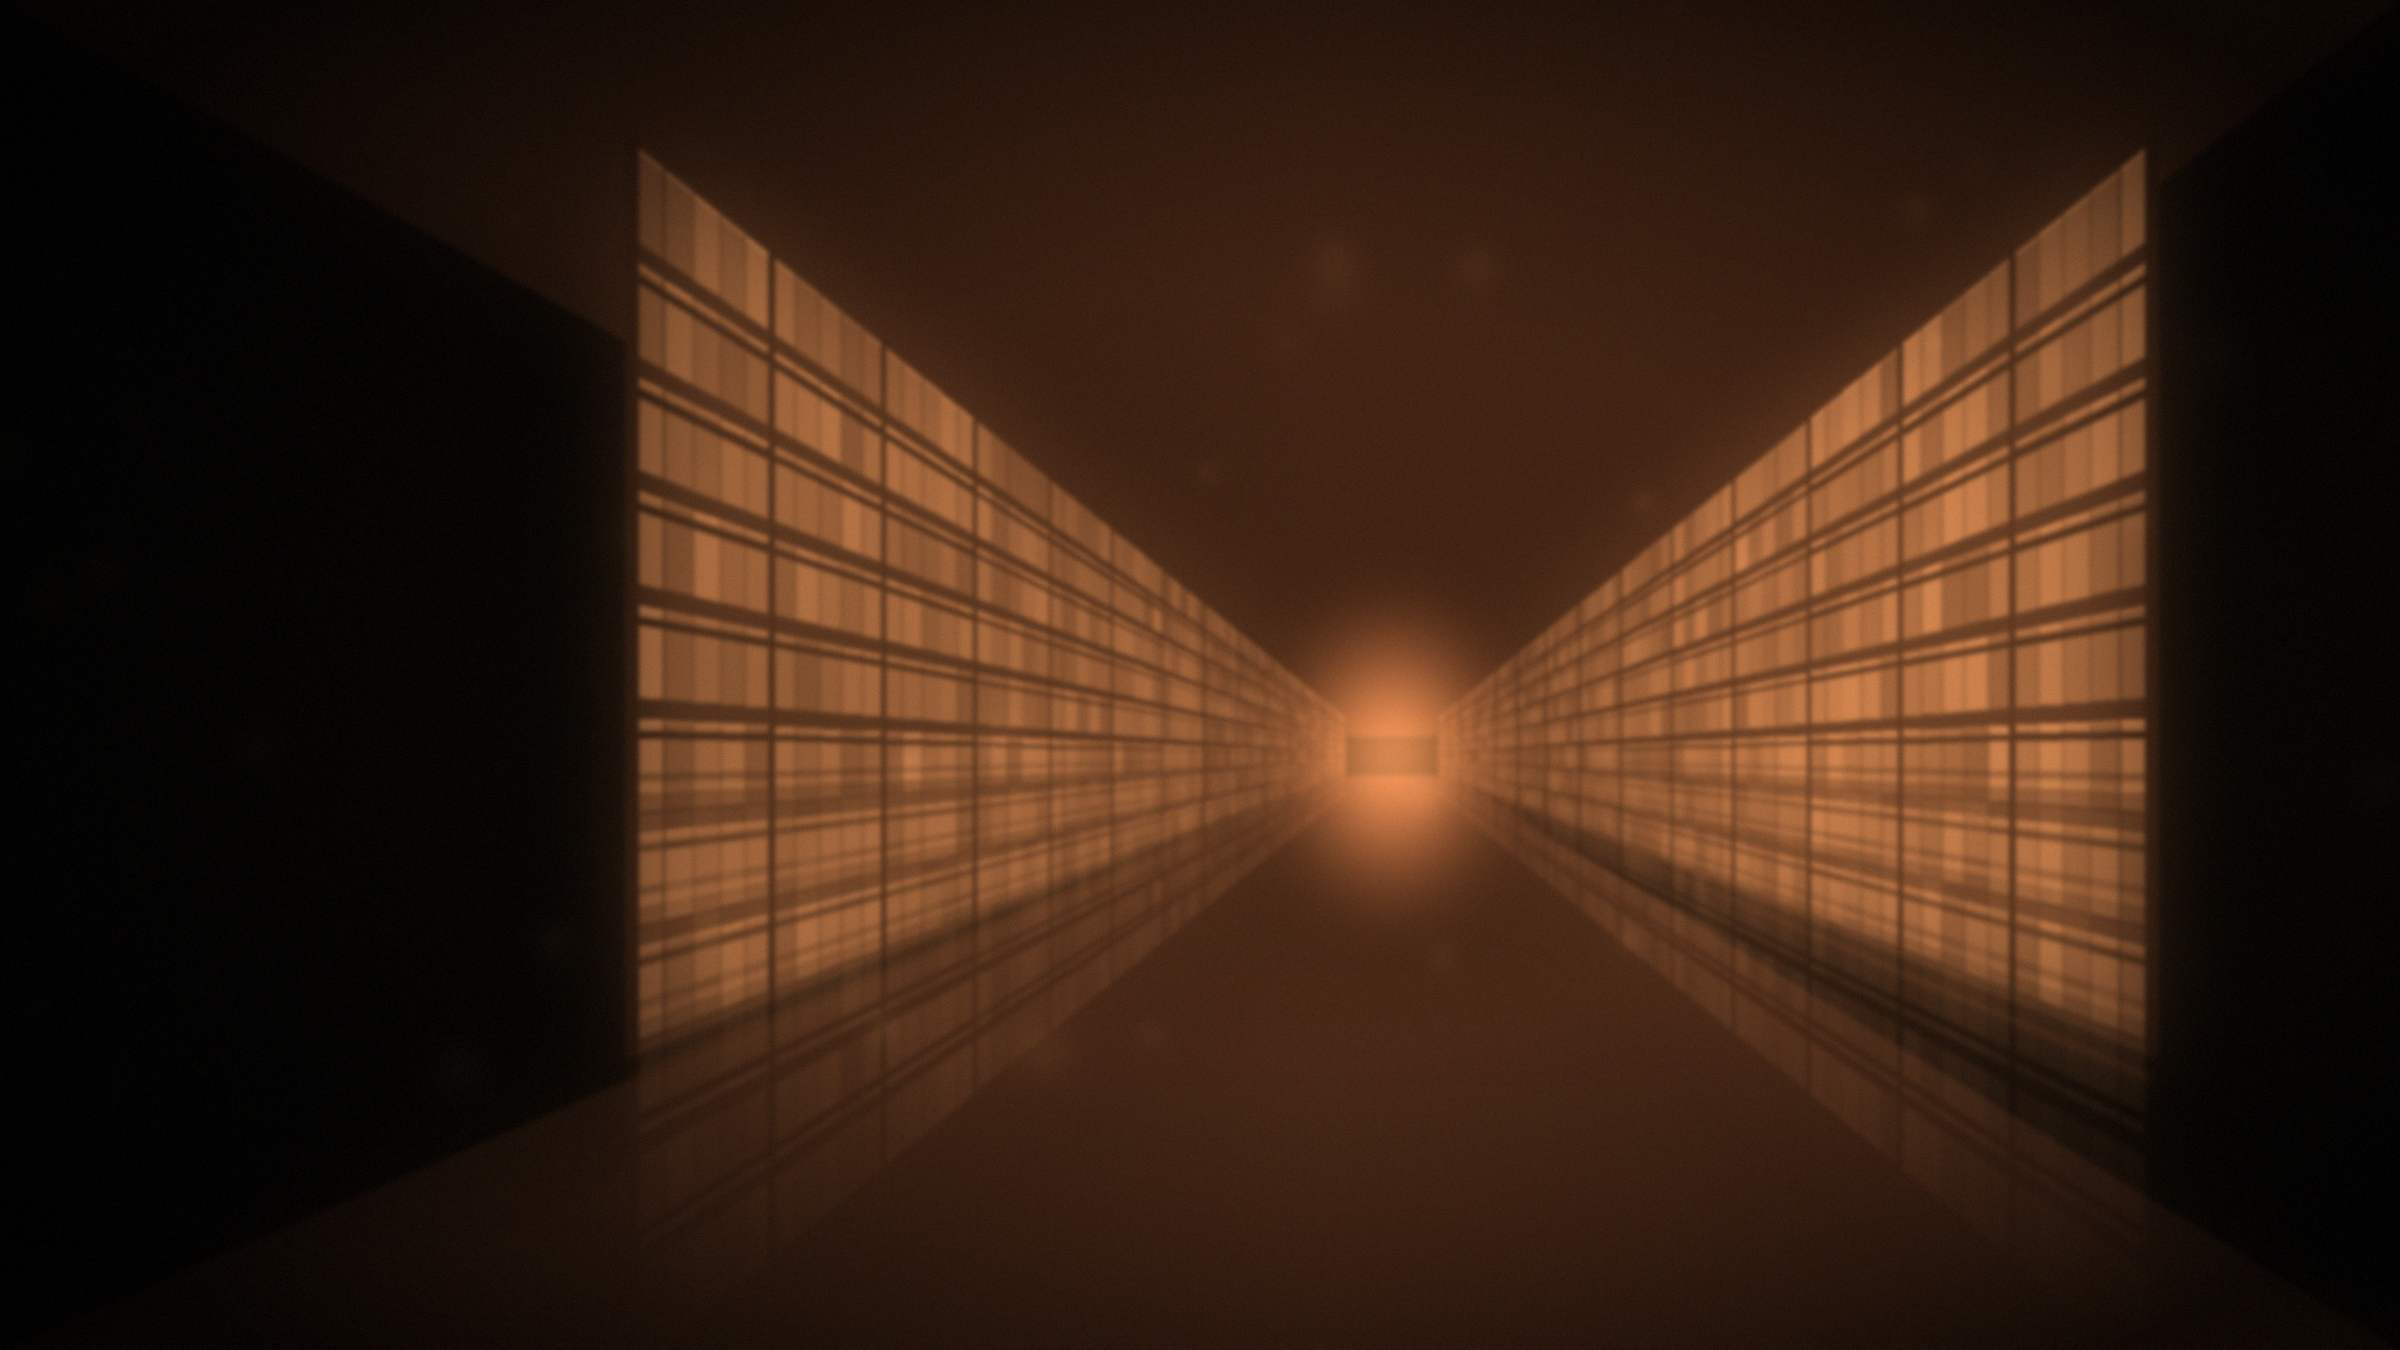
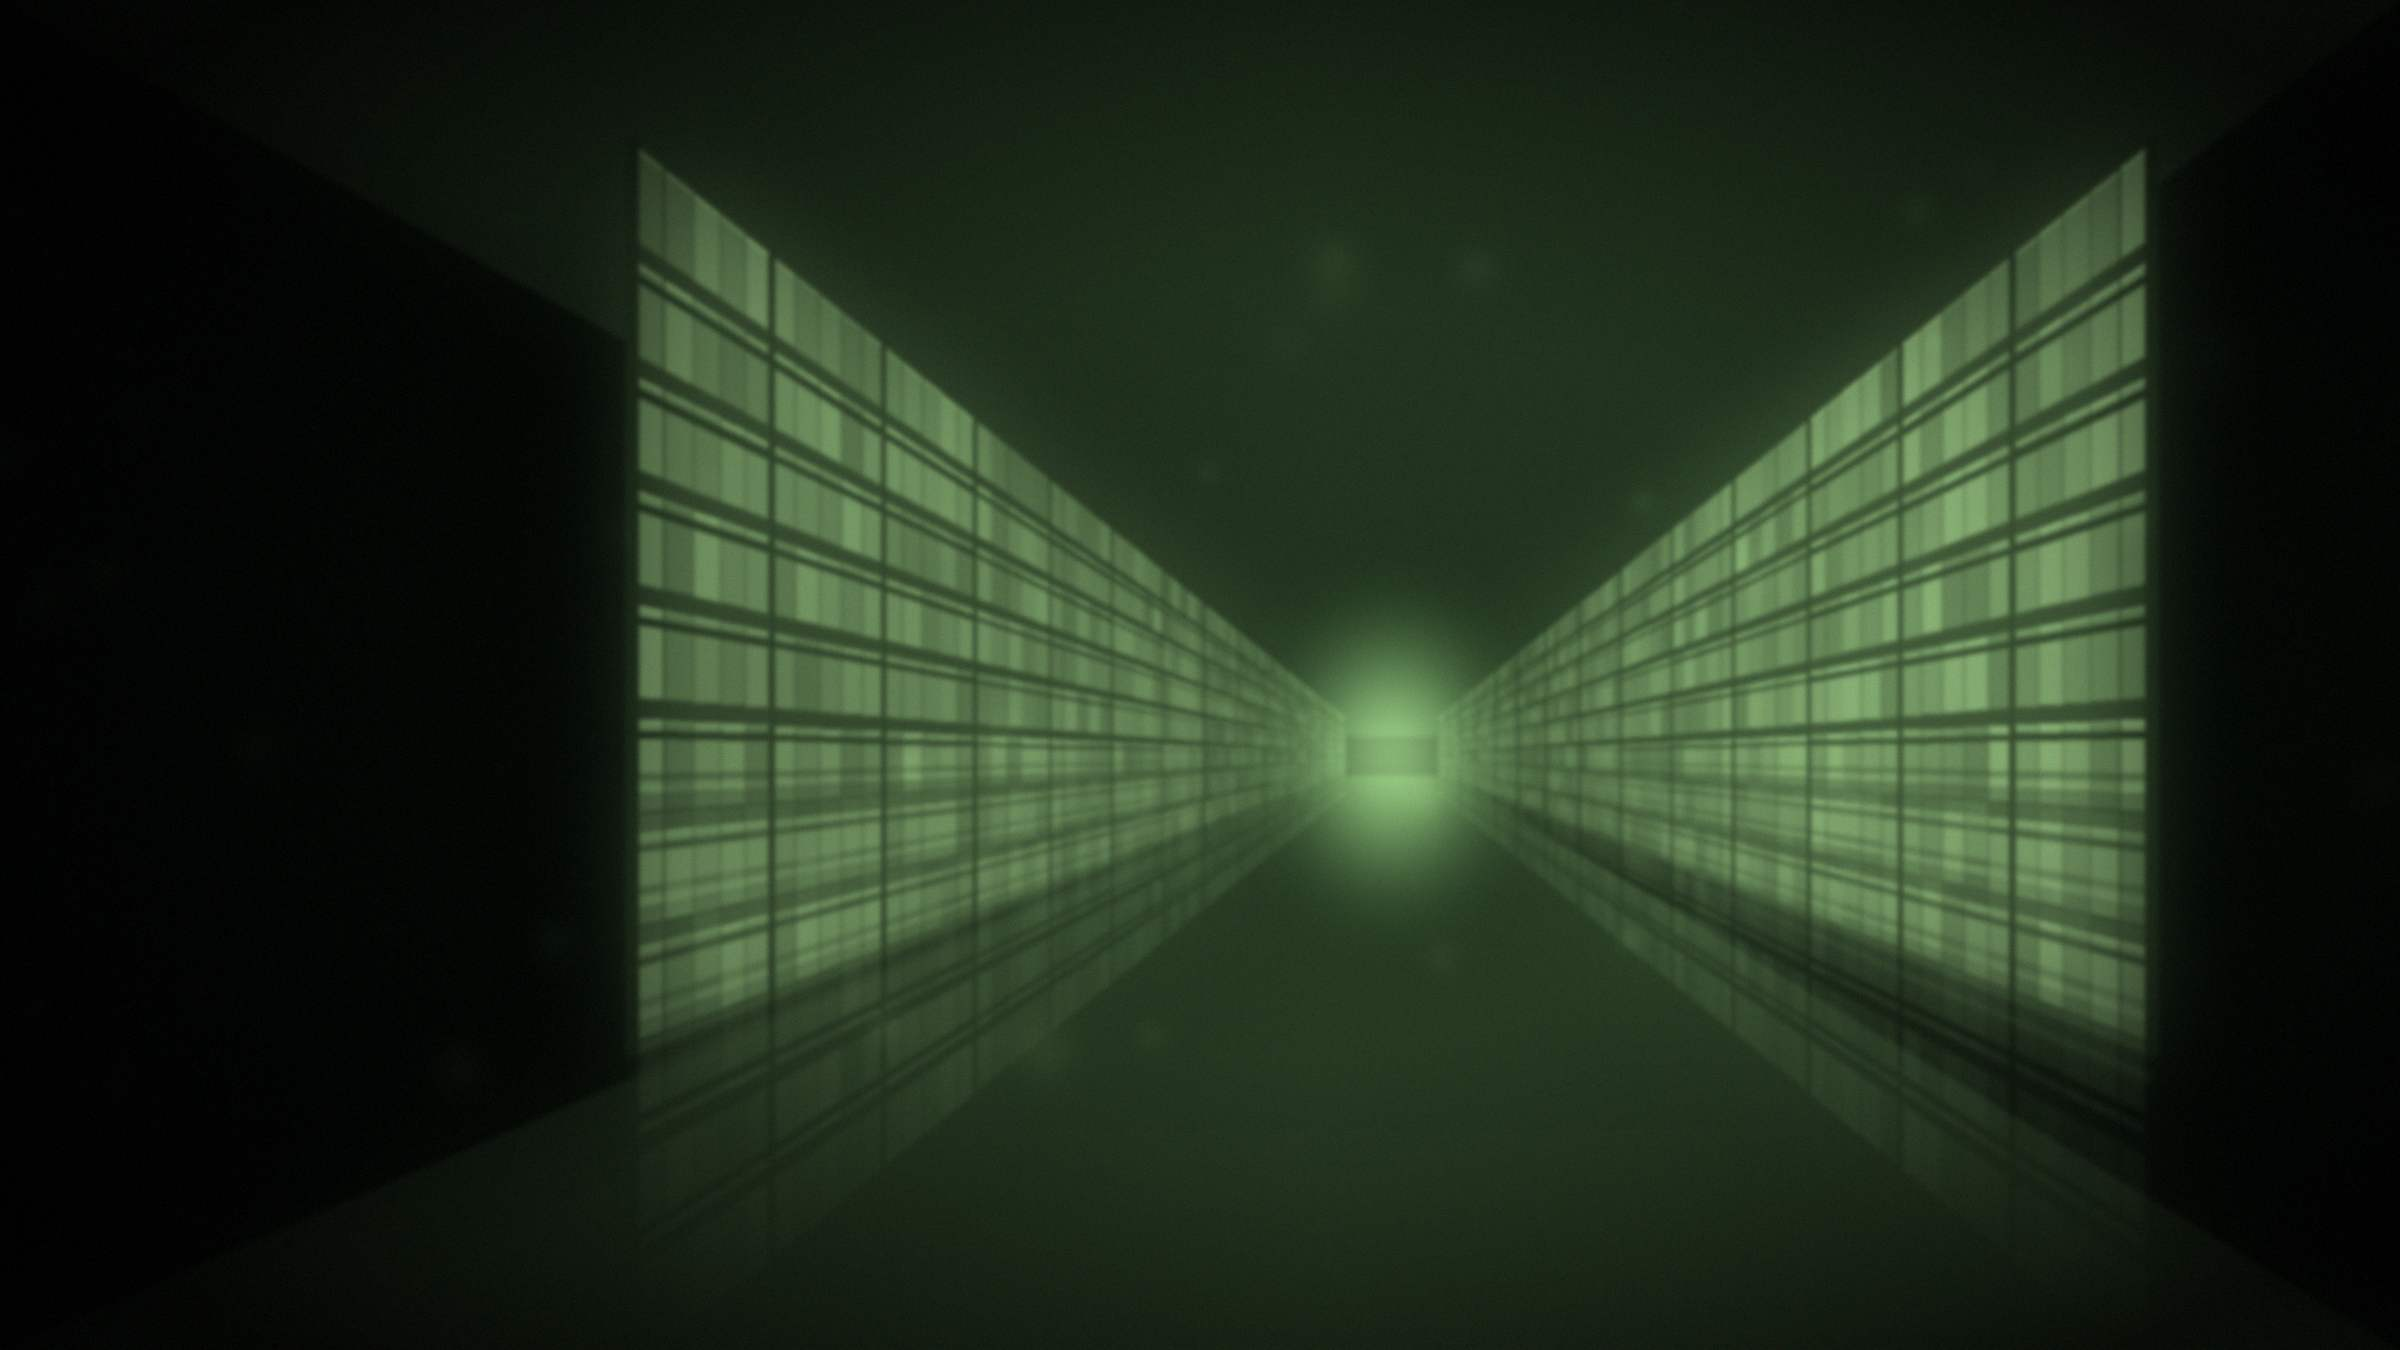
Recolour the app in nature green
Palette, glass tints and the generated hero image move from warm brown and cream
to forest and sage green with a leaf-green accent.

diff --git a/src/ui.html b/src/ui.html
@@ -5,26 +5,26 @@
 <meta name="viewport" content="width=device-width, initial-scale=1">
 <title>pdfsqueeze</title>
 <style>
-  /* Look: cinematic dark editorial. A warm hero image sits behind frosted-glass panels,
-     with a cream accent, large light headlines and pill buttons. One look, dark only. */
+  /* Look: cinematic dark editorial. A forest-toned hero image sits behind frosted-glass panels,
+     with a leaf-green accent, large light headlines and pill buttons. One look, dark only. */
   :root {
-    --bg: #0b0806;
-    --rail: rgba(14, 10, 8, .52);
-    --surface: rgba(38, 28, 22, .58);
-    --ink: #f4e8dc;
-    --muted: #c4b3a4;
-    --faint: #94836f;
-    --line: rgba(255, 232, 210, .15);
-    --accent: #f0c9ae;     /* cream-peach */
-    --accent-ink: #2a170c;
-    --accent-soft: rgba(240, 201, 174, .16);
-    --good: #94e3b8;
-    --good-soft: rgba(148, 227, 184, .12);
+    --bg: #050a07;
+    --rail: rgba(7, 15, 10, .52);
+    --surface: rgba(20, 35, 26, .58);
+    --ink: #e6f1e8;
+    --muted: #a8bfae;
+    --faint: #7b9283;
+    --line: rgba(200, 240, 215, .15);
+    --accent: #86cd78;     /* leaf green */
+    --accent-ink: #0b2410;
+    --accent-soft: rgba(134, 205, 120, .16);
+    --good: #b4e8a0;
+    --good-soft: rgba(180, 232, 160, .12);
     --warn: #f2c35b;
     --warn-soft: rgba(242, 195, 91, .12);
     --bad: #ff9d92;
     --bad-soft: rgba(255, 157, 146, .14);
-    --glass: rgba(20, 14, 11, .50);
+    --glass: rgba(9, 19, 13, .50);
     --shadow: 0 1px 2px rgba(0, 0, 0, .4), 0 18px 48px rgba(0, 0, 0, .42);
     --radius: 18px;
     --display: "SF Pro Display", -apple-system, BlinkMacSystemFont, "Segoe UI Variable Display", "Segoe UI", Roboto, system-ui, sans-serif;
@@ -251,17 +251,17 @@
   .hidden { display: none !important; }
 
   .ucards { display: grid; grid-template-columns: repeat(auto-fill, minmax(150px, 1fr)); gap: 14px; }
-  .ucard { border: 1px solid var(--line); background: rgba(255, 238, 222, .05); border-radius: 16px; padding: 10px; display: grid; gap: 4px; min-width: 0; }
+  .ucard { border: 1px solid var(--line); background: rgba(225, 248, 230, .05); border-radius: 16px; padding: 10px; display: grid; gap: 4px; min-width: 0; }
   .uframe { position: relative; aspect-ratio: 3 / 4; border-radius: 9px; background: rgba(0, 0, 0, .35); border: 1px solid var(--line); display: grid; place-items: center; overflow: hidden; color: var(--faint); }
   .uframe img { width: 100%; height: 100%; object-fit: contain; object-position: top; display: block; }
   .unum { position: absolute; top: 7px; left: 7px; min-width: 26px; height: 26px; border-radius: 99px; background: var(--accent); color: var(--accent-ink); font-weight: 700; display: grid; place-items: center; padding: 0 7px; font-variant-numeric: tabular-nums; }
   .uname { font-weight: 600; font-size: 14px; overflow: hidden; text-overflow: ellipsis; white-space: nowrap; margin-top: 4px; }
   .umeta { color: var(--muted); font-size: 12.5px; font-variant-numeric: tabular-nums; }
   .cx { position: absolute; top: 7px; right: 7px; width: 26px; height: 26px; padding: 0; line-height: 0; border-radius: 50%; border: 1px solid var(--line);
-        background: rgba(10, 7, 5, .62); color: var(--ink); cursor: pointer; display: grid; place-items: center; z-index: 2; }
+        background: rgba(4, 10, 6, .62); color: var(--ink); cursor: pointer; display: grid; place-items: center; z-index: 2; }
   .cx svg.i { width: 14px; height: 14px; }
   .cx:hover, .cx:focus-visible { background: var(--bad-soft); color: var(--bad); border-color: var(--bad); outline: none; }
-  .ugrip { justify-self: center; margin-top: 6px; width: 38px; height: 30px; border-radius: 10px; display: grid; place-items: center; color: var(--muted); border: 1px solid var(--line); background: rgba(255, 238, 222, .06); cursor: grab; }
+  .ugrip { justify-self: center; margin-top: 6px; width: 38px; height: 30px; border-radius: 10px; display: grid; place-items: center; color: var(--muted); border: 1px solid var(--line); background: rgba(225, 248, 230, .06); cursor: grab; }
   .ugrip svg.i { width: 18px; height: 18px; }
   .ucards.sortable .ucard[data-uid] { cursor: grab; user-select: none; -webkit-user-select: none; touch-action: none; }
   .ucards.sortable .ucard[data-uid]:hover { border-color: var(--accent); }
@@ -274,7 +274,7 @@
   svg.i.flip { transform: scaleX(-1); }
   .ucard { grid-template-columns: minmax(0, 1fr); }
   .ucard.add { display: grid; justify-items: stretch; align-content: start; width: 100%; cursor: pointer; background: transparent; border: 1px dashed var(--line); color: var(--muted); text-align: left; font: inherit; }
-  .ucard.add .uframe { width: 100%; background: rgba(255, 238, 222, .04); border: 1px dashed var(--line); }
+  .ucard.add .uframe { width: 100%; background: rgba(225, 248, 230, .04); border: 1px dashed var(--line); }
   .ucard.add .uframe svg.i { width: 38px; height: 38px; stroke-width: 1.4; }
   .ucard.add .uname { color: var(--ink); }
   .ucard.add:hover, .ucard.add:focus-visible { border-color: var(--accent); color: var(--accent); outline: none; background: var(--accent-soft); }
@@ -283,29 +283,29 @@
   html { background: var(--bg); }
   body { background: transparent; }
   body::before { content: ""; position: fixed; inset: 0; z-index: -1; background:
-      linear-gradient(90deg, rgba(8, 5, 3, .86) 0%, rgba(8, 5, 3, .58) 40%, rgba(8, 5, 3, .30) 100%),
+      linear-gradient(90deg, rgba(3, 9, 5, .86) 0%, rgba(3, 9, 5, .58) 40%, rgba(3, 9, 5, .30) 100%),
       var(--hero, none) center / cover no-repeat; }
-  .app { margin: 14px; height: calc(100% - 28px); border: 1px solid rgba(240, 201, 174, .42); border-radius: 28px; overflow: hidden; background: rgba(6, 4, 3, .22); }
+  .app { margin: 14px; height: calc(100% - 28px); border: 1px solid rgba(134, 205, 120, .42); border-radius: 28px; overflow: hidden; background: rgba(3, 8, 5, .22); }
   .rail { background: var(--rail); -webkit-backdrop-filter: blur(22px) saturate(1.15); backdrop-filter: blur(22px) saturate(1.15); border-right: 1px solid var(--line); }
   .sheet, .banner, .tile, .doc, .pg-bar { -webkit-backdrop-filter: blur(16px); backdrop-filter: blur(16px); }
   .sheet { background: var(--glass); border-radius: 22px; }
-  .doc { background: rgba(255, 238, 222, .05); border-radius: 16px; }
+  .doc { background: rgba(225, 248, 230, .05); border-radius: 16px; }
   .doc[aria-pressed="true"] { background: var(--accent-soft); }
   .thumb { background: rgba(0, 0, 0, .35); border-color: var(--line); }
   input[type=text], input[type=number], input[type=password], select { background: rgba(0, 0, 0, .30); border-radius: 12px; }
-  .pg { background: rgba(255, 238, 222, .05); }
+  .pg { background: rgba(225, 248, 230, .05); }
   .pg .frame { background: rgba(0, 0, 0, .35); }
   .pg-bar { background: var(--glass); border-radius: 16px; }
   .preset { background: rgba(0, 0, 0, .25); }
   .grps { background: var(--glass); -webkit-backdrop-filter: blur(16px); backdrop-filter: blur(16px); border-radius: 999px; padding: 5px; }
   .grp { border-radius: 999px; }
   .grp.icon-only { background: var(--glass); border-radius: 999px; }
-  .sub { background: rgba(255, 238, 222, .06); }
+  .sub { background: rgba(225, 248, 230, .06); }
   .hero h1, .task-head h1 { font-family: var(--display); font-weight: 300; letter-spacing: -.035em; }
   .task-head h1 { font-size: 34px; line-height: 1.1; }
   .task-head p { font-size: 15.5px; }
   .brand b { font-family: var(--display); font-weight: 400; letter-spacing: -.02em; }
-  .btn { border-radius: 999px; background: rgba(255, 238, 222, .07); }
+  .btn { border-radius: 999px; background: rgba(225, 248, 230, .07); }
   .btn.primary { background: var(--accent); color: var(--accent-ink); border-color: var(--accent); padding: 13px 28px; }
   .btn.primary:hover { filter: brightness(1.06); }
   .btn.good { background: var(--accent); border-color: var(--accent); color: var(--accent-ink); }
@@ -316,11 +316,11 @@
 
   /* first screen: big headline, pill actions, numbered chapters */
   .cine { min-height: calc(100vh - 150px); display: flex; flex-direction: column; justify-content: flex-end; gap: 22px; padding-bottom: 6px; }
-  .cine h1 { margin: 0; font-family: var(--display); font-weight: 300; font-size: clamp(44px, 6.4vw, 92px); line-height: 1.0; letter-spacing: -.045em; color: #f6e9dd; text-wrap: balance; }
+  .cine h1 { margin: 0; font-family: var(--display); font-weight: 300; font-size: clamp(44px, 6.4vw, 92px); line-height: 1.0; letter-spacing: -.045em; color: #e9f5ec; text-wrap: balance; }
   .cine p { margin: 0; max-width: 46ch; color: var(--muted); font-size: 17px; }
   .cta { display: flex; gap: 10px; align-items: center; }
   .pill { border: 0; border-radius: 999px; background: var(--accent); color: var(--accent-ink); font-weight: 650; font-size: 15.5px; padding: 15px 26px; cursor: pointer; }
-  .pill.round { width: 52px; height: 52px; padding: 0; display: grid; place-items: center; background: rgba(255, 238, 222, .12); color: var(--ink); border: 1px solid var(--line); }
+  .pill.round { width: 52px; height: 52px; padding: 0; display: grid; place-items: center; background: rgba(225, 248, 230, .12); color: var(--ink); border: 1px solid var(--line); }
   .pill:hover { filter: brightness(1.07); }
   .pill:focus-visible { outline: 2px solid var(--ink); outline-offset: 3px; }
   .chapters { list-style: none; margin: 18px 0 0; padding: 0; display: grid; grid-template-columns: repeat(3, minmax(0, 1fr)); gap: 22px; }

diff --git a/scripts/make-hero.py b/scripts/make-hero.py
@@ -1,5 +1,5 @@
 #!/usr/bin/env python3
-"""Generates assets/hero.jpg: a long archive corridor of paper-filled shelves in warm light.
+"""Generates assets/hero.jpg: a long archive corridor of paper-filled shelves in soft forest light.
 
 Original artwork made from code, so there is no licence to carry. To use a real
 photograph instead, replace assets/hero.jpg (2400x1350 works well; keep it under
@@ -19,9 +19,9 @@ BOT = 300.0                 # below the horizon (floor line) at z = 1
 
 def warm(v, k=1.0):
     v = max(0.0, min(1.0, v))
-    return (int((30 + 225 * v) * k), int((17 + 165 * v) * k), int((10 + 112 * v) * k))
+    return (int((16 + 196 * v) * k), int((24 + 206 * v) * k), int((15 + 170 * v) * k))
 
-img = Image.new("RGB", (W, H), (8, 6, 4))
+img = Image.new("RGB", (W, H), (4, 8, 5))
 d = ImageDraw.Draw(img)
 
 def lerp(a, b, t): return a + (b - a) * t
@@ -96,14 +96,14 @@ for _ in range(46):
     cx, cy = rng.uniform(0, W), rng.uniform(0, H * 0.8)
     r = rng.uniform(10, 42)
     m = np.exp(-(((xx - cx) ** 2 + (yy - cy) ** 2) / (2 * (r * 0.55) ** 2)))
-    out += m[:, :, None] * rng.uniform(4, 13) * np.array([1.0, 0.78, 0.55])[None, None, :]
+    out += m[:, :, None] * rng.uniform(4, 13) * np.array([0.92, 1.0, 0.80])[None, None, :]
 
 # darken the left third so headlines read, vignette, warm grade, grain
 left = np.clip(1.0 - 0.55 * np.clip((W * 0.55 - xx) / (W * 0.55), 0, 1), 0.4, 1.0)
 vx = (xx - W / 2) / (W / 2); vy = (yy - H / 2) / (H / 2)
 vig = np.clip(1.2 - 0.62 * (vx ** 2 + vy ** 2), 0.22, 1.0)
 out *= (left * vig)[:, :, None]
-out *= np.array([1.06, 0.96, 0.86])[None, None, :]
+out *= np.array([0.86, 1.0, 0.84])[None, None, :]
 out += rng.normal(0, 3.0, out.shape)
 Image.fromarray(np.clip(out, 0, 255).astype(np.uint8)).save(
     "assets/hero.jpg", quality=64, optimize=True, progressive=True, subsampling="4:2:0")

diff --git a/CHANGELOG.md b/CHANGELOG.md
@@ -6,8 +6,8 @@ Plain-language record of what pdfsqueeze can do and how well that has been check
 ## Unreleased (work since the 2026-10-10 CI run; not yet on GitHub)
 
 ### Added
-- **New look**: a cinematic dark design with a warm hero image behind frosted-glass panels,
-  a cream accent, large light headlines, pill buttons and a numbered first screen. The image is
+- **New look**: a cinematic dark design in nature green: a forest-toned hero image behind
+  frosted-glass panels, a leaf-green accent, large light headlines, pill buttons and a numbered first screen. The image is
   original artwork generated by `scripts/make-hero.py` (no licence to carry); replace
   `assets/hero.jpg` to use a real photograph. *Verified:* screenshots of the first screen, the
   page grid and a finished result in a browser tab; not yet seen in the real app window.
